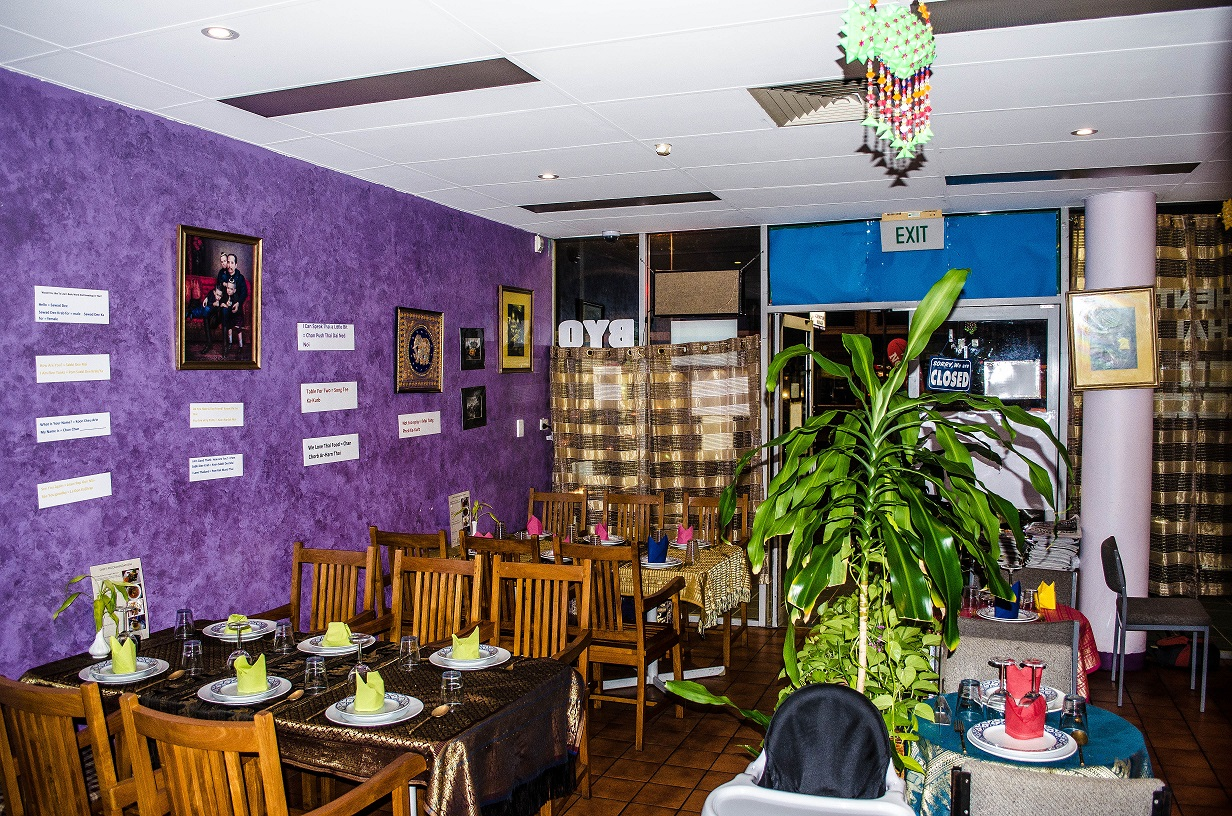
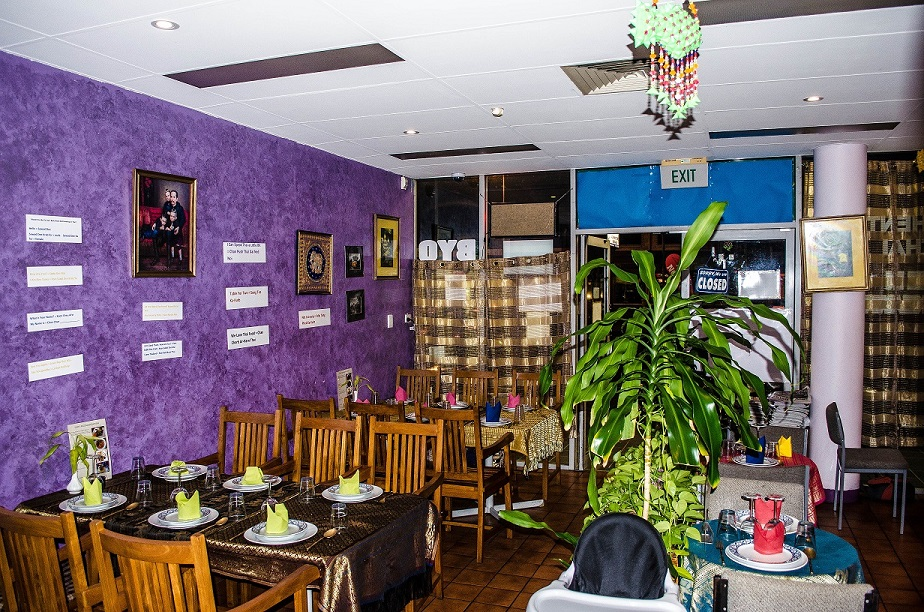
optimise

diff --git a/css/styles.css b/css/styles.css
@@ -1,6 +1,3 @@
-/*
-Author URI: http://webthemez.com/
-*/
 
 @import url(http://fonts.googleapis.com/css?family=Open+Sans:400,700,600);
 @import url(http://fonts.googleapis.com/css?family=Titillium+Web:400,700);

diff --git a/js/custom.js b/js/custom.js
@@ -1,6 +1,4 @@
-// Custom Script
-// Developed by: Samson.Onna
-// CopyRights : http://webthemez.com
+
 var customScripts = {
     profile: function () {
      	 var portfolio = $('#portfolio');
